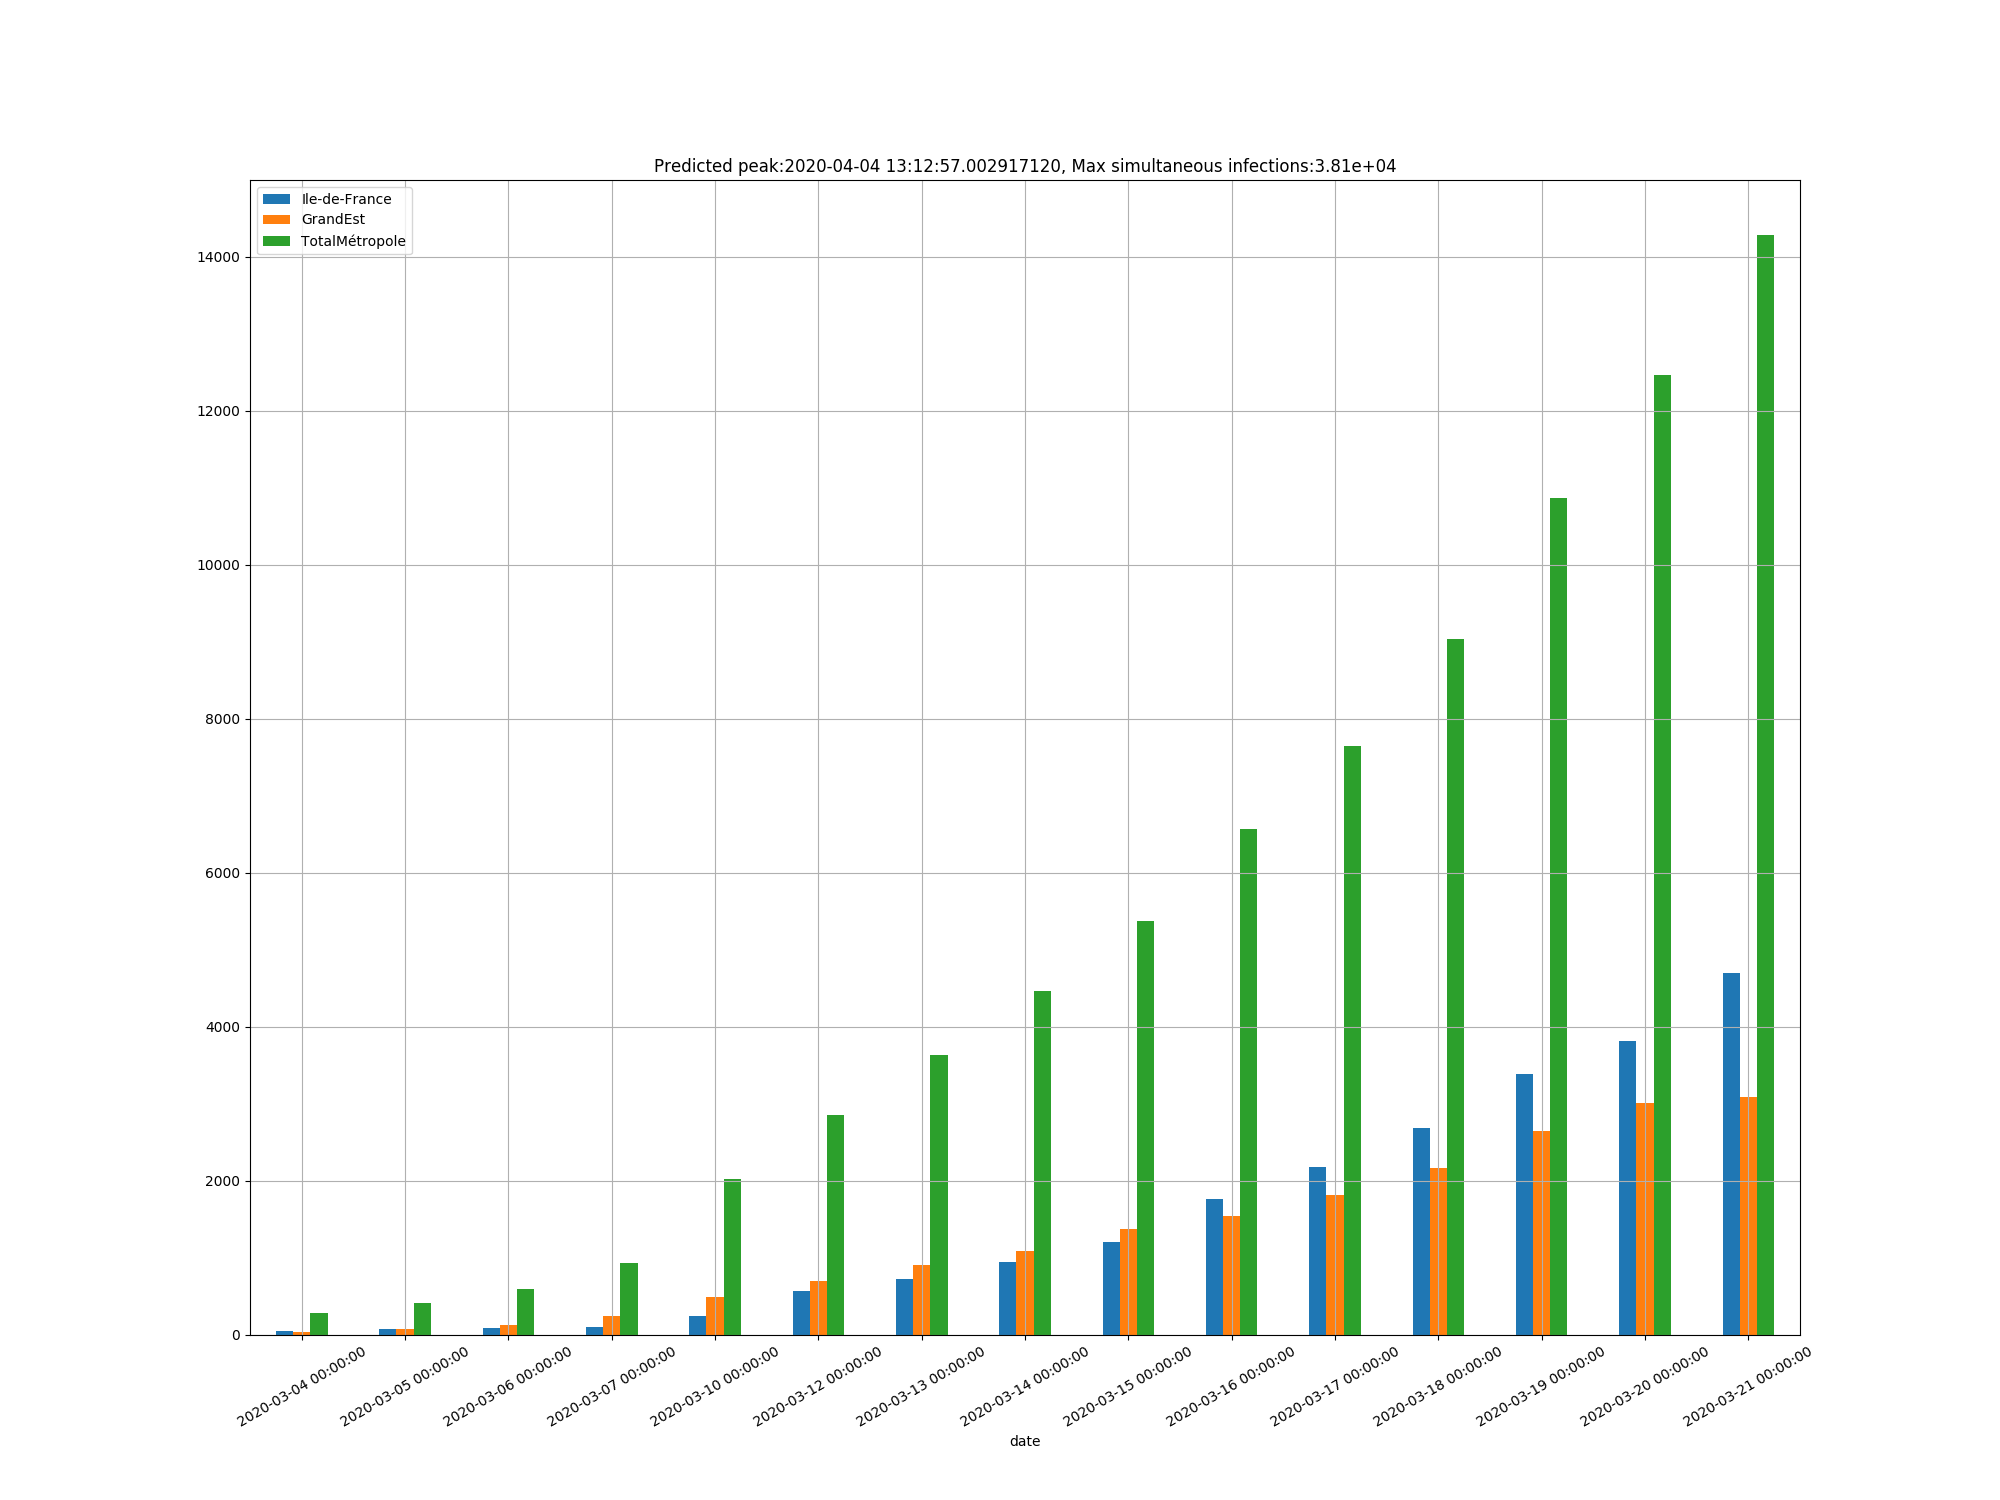
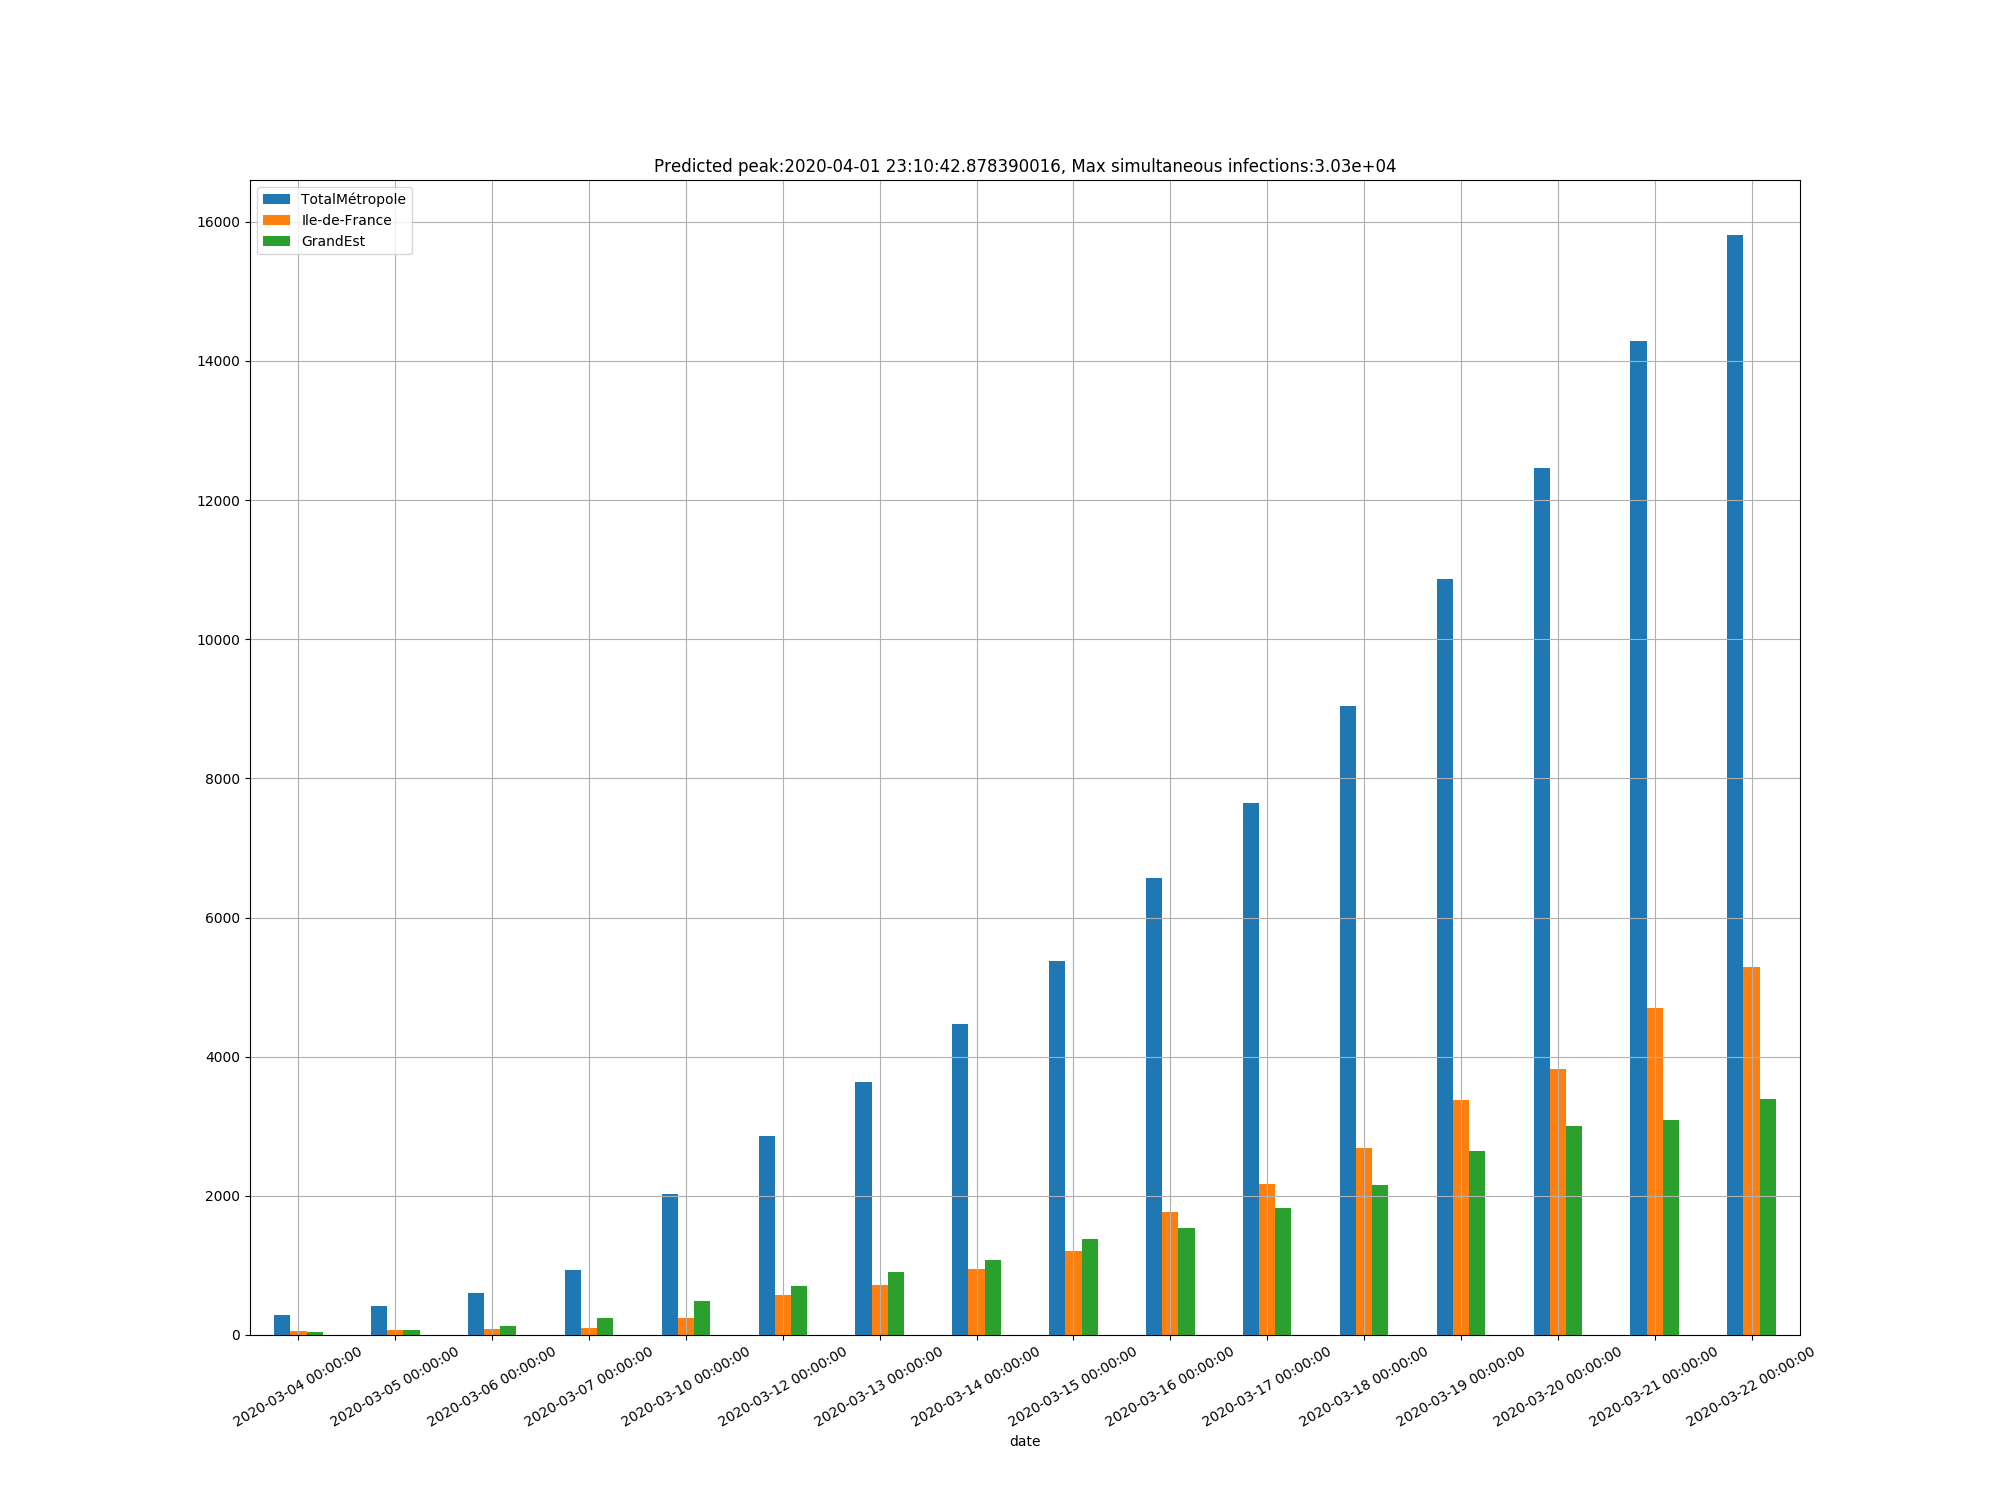
20200322

diff --git a/france_regional.py b/france_regional.py
@@ -164,18 +164,19 @@ title = 'Predicted peak:' + \
         ', Max simultaneous infections:' + \
         format(predictions[2], '4.2e')
 
-# fig, ax = plt.subplots()
+fig, ax = plt.subplots()
 cumulative_data.plot(
     x='date',
     y={'GrandEst', 'Ile-de-France', 'TotalMétropole'},
     kind='bar',
-    # ax=ax,
+    ax=ax,
     rot=30,
     title=title,
     figsize=(20, 15),
     grid=True
 ).get_figure().savefig('summary.png')
 
-test = pd.DataFrame(pd.date_range(start='1/1/2020', end='1/08/2020'), columns=['date'])
+test = pd.DataFrame(pd.date_range(start='1/1/2020', end='08/01/2020'), columns=['date'])
 test['fit'] = predictions[2] * np.exp(-((test.date.astype('int') - predictions[0])/predictions[1])**2)
+# test.fit.plot(x='date', ax=ax)
 # height() * np.exp(-((x-mu())/sigma())**2)
